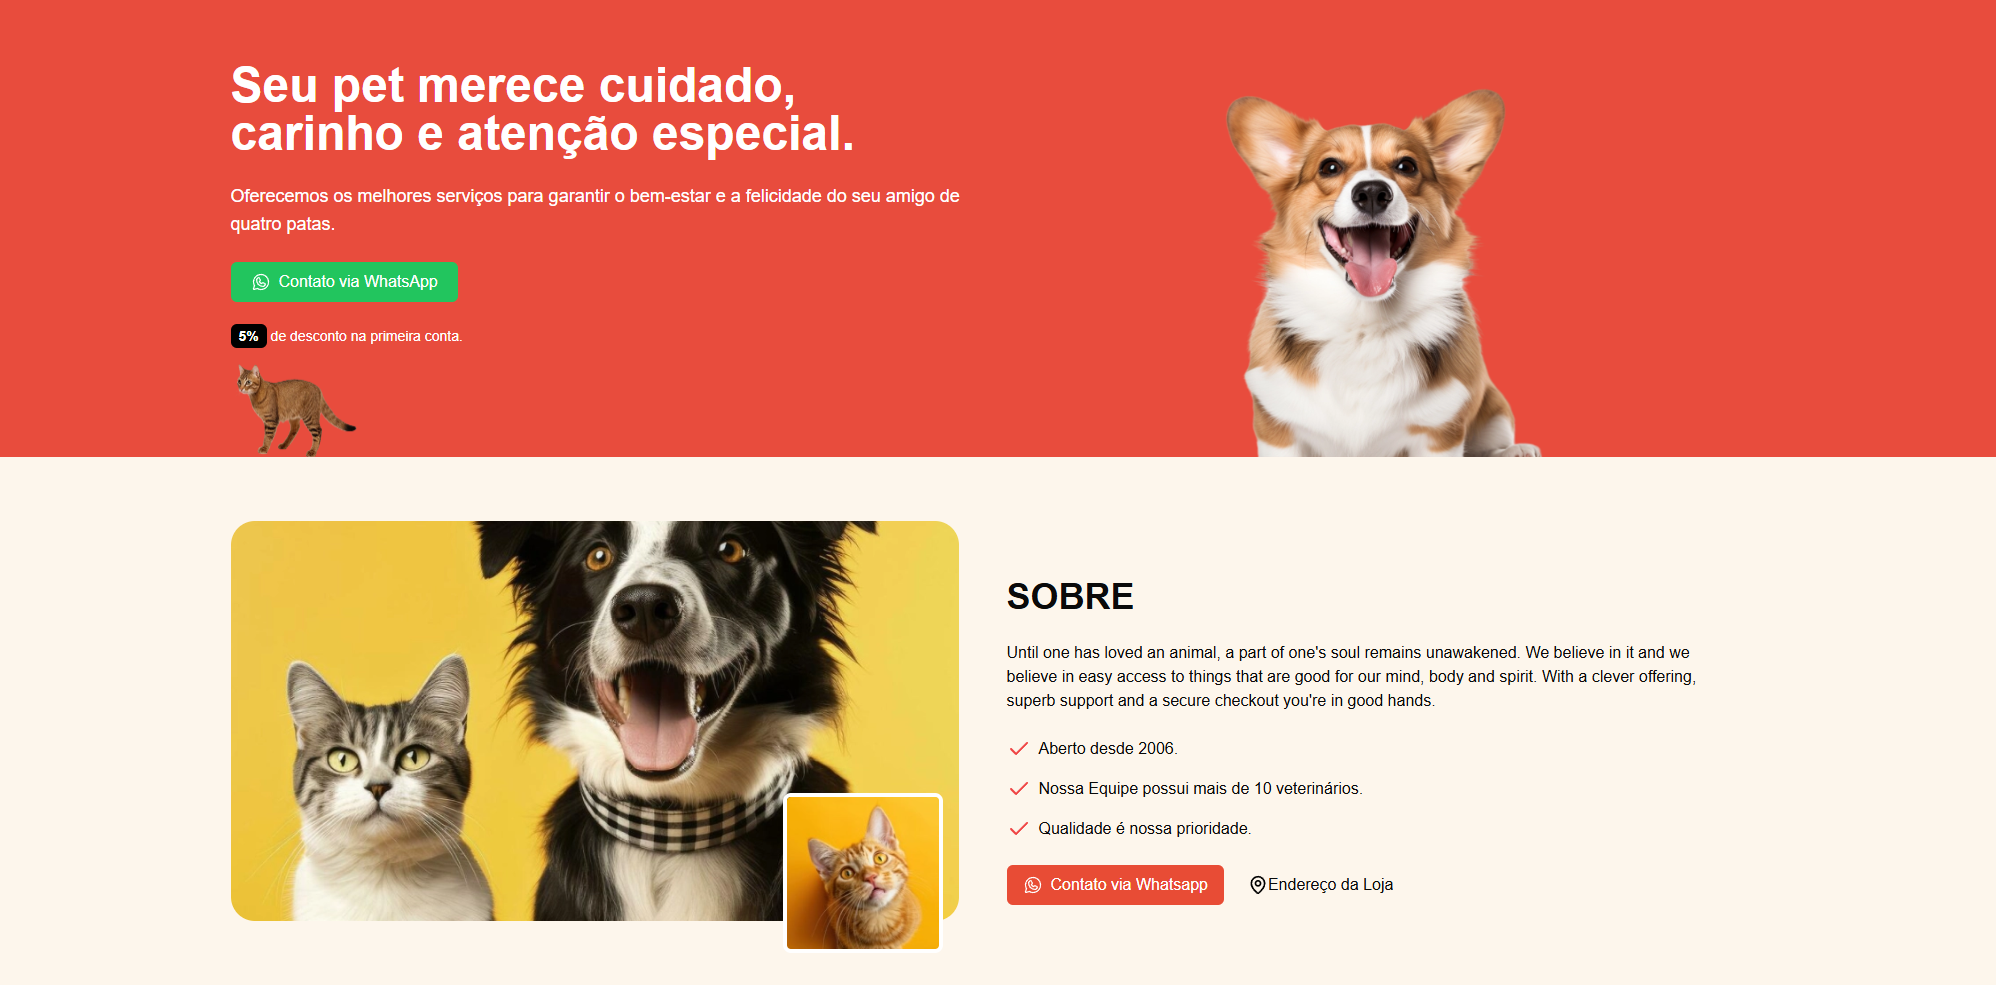
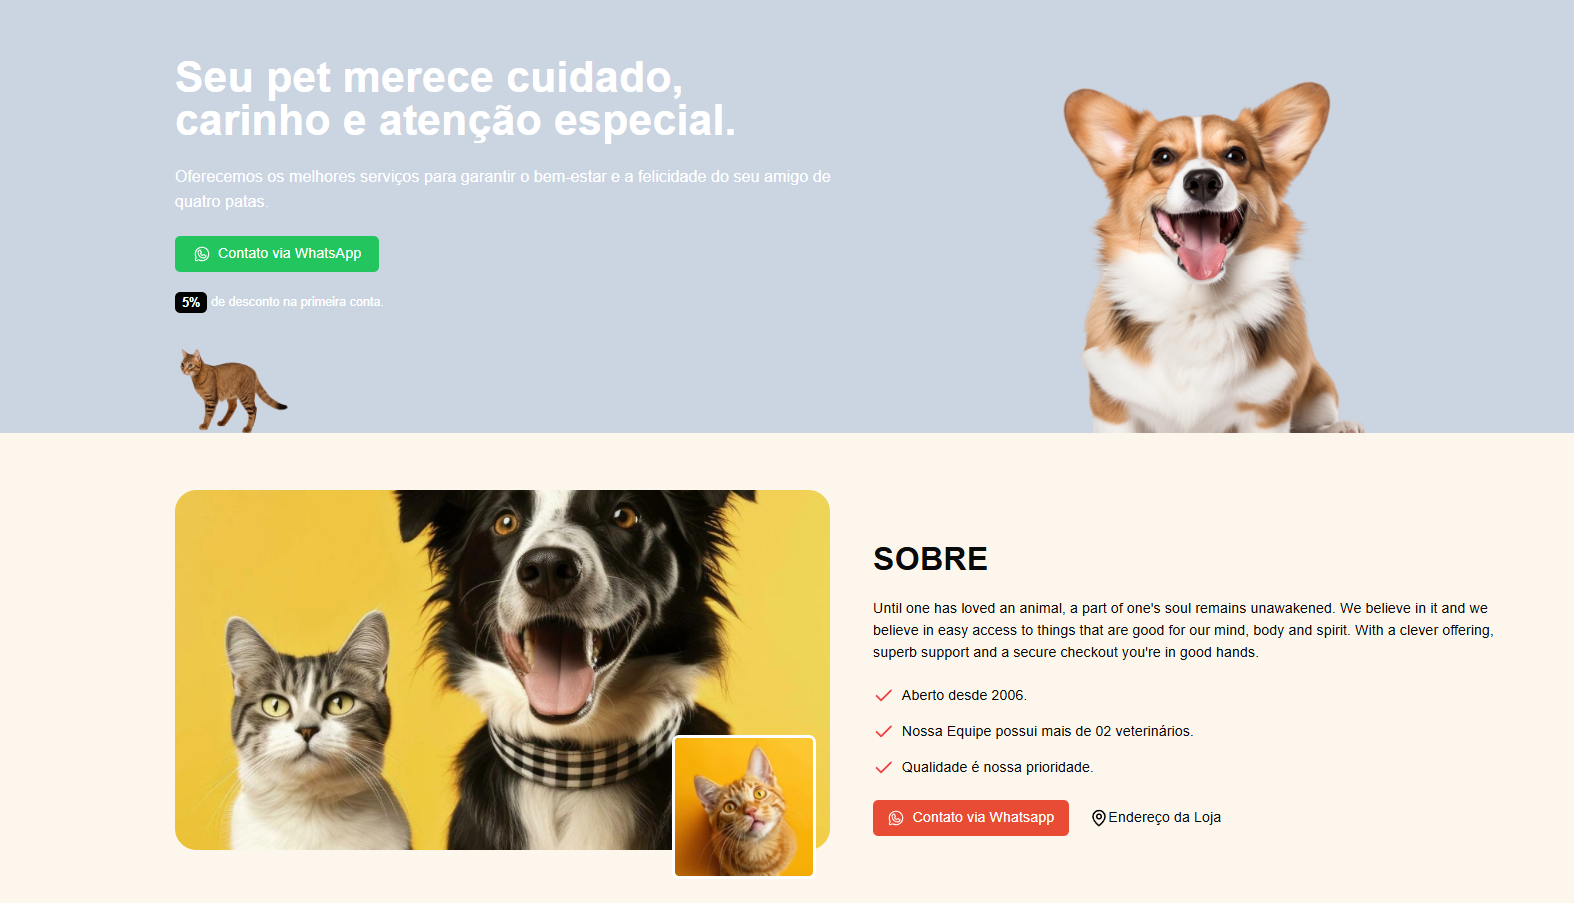
updated

diff --git a/src/app/_components/hero.tsx b/src/app/_components/hero.tsx
@@ -5,7 +5,7 @@ import { WhatsappLogo } from "@phosphor-icons/react/dist/ssr";
 
 export default function Hero() {
   return (
-    <section className="bg-[#E84C3D] text-white relative overflow-hidden">
+    <section className="bg-slate-300 text-white relative overflow-hidden">
 
       <div>
             <Image
@@ -23,10 +23,8 @@ export default function Hero() {
       <div className="container mx-auto pt-16 md:pb-0 px-4 relative">
             <article className="grid grid-cols-1 lg:grid-cols-2 gap-8">
                   <div className="space-y-6">
-                        <h1
-                              className="text-3xl md:text-4xl lg:text-5xl font-bold leading-10"
-                              data-aos="fade-down"
-                        >
+                        <h1 className="text-3xl md:text-4xl lg:text-5xl font-bold leading-10"
+                              data-aos="fade-down" >
                               Seu pet merece cuidado, carinho e atenção especial.
                         </h1>
                         <p className="text-base lg:text-lg" data-aos="fade-right">
@@ -52,7 +50,7 @@ export default function Hero() {
                                     <b className="bg-black text-white px-2 py-1 rounded-md">5%</b> de desconto na primeira conta.
                               </p>
 
-                              <div className="flex mt-4">
+                              <div className="flex mt-10 ">
                                     <div className="w-32 hidden lg:block">
                                           <Image
                                                 src={catImg}

diff --git a/src/app/_components/footer.tsx b/src/app/_components/footer.tsx
@@ -18,7 +18,7 @@ const brands = [
 
 export default function Footer() {
   return (
-    <section className="bg-[#E84C3D] py-16 text-white">
+    <section className="bg-slate-900 py-16 text-white">
       <div className="container mx-auto px-4">
             
             <div className="border-b border-white/20 pb-8">
@@ -61,10 +61,9 @@ export default function Footer() {
 
                   <div>
                         <h3 className="text-2xl font-semibold mb-2">Contatos</h3>
-                        <p>Email: contato@gmail.com</p>
-                        <p>Cidade, Estado - CEP: 12318-312</p>
+                        <p>Email: contato-estrela-pet@gmail.com</p>
+                        <p>Cidade: Aparecida de Goiânia, Estado: Goiás - CEP: 74961-070</p>
                         <p>Telefone: (XX) 1231831238</p>
-                        <p>Rua X, centro, Campo Grande | MS</p>
                   </div>
 
 

diff --git a/src/app/_components/about.tsx b/src/app/_components/about.tsx
@@ -52,7 +52,7 @@ export default function About() {
 
                                     <li className='flex items-center gap-2'>
                                           <Check className="text-red-500" />
-                                          Nossa Equipe possui mais de 10 veterinários.
+                                          Nossa Equipe possui mais de 02 veterinários.
                                     </li>
 
                                     <li className='flex items-center gap-2'>
